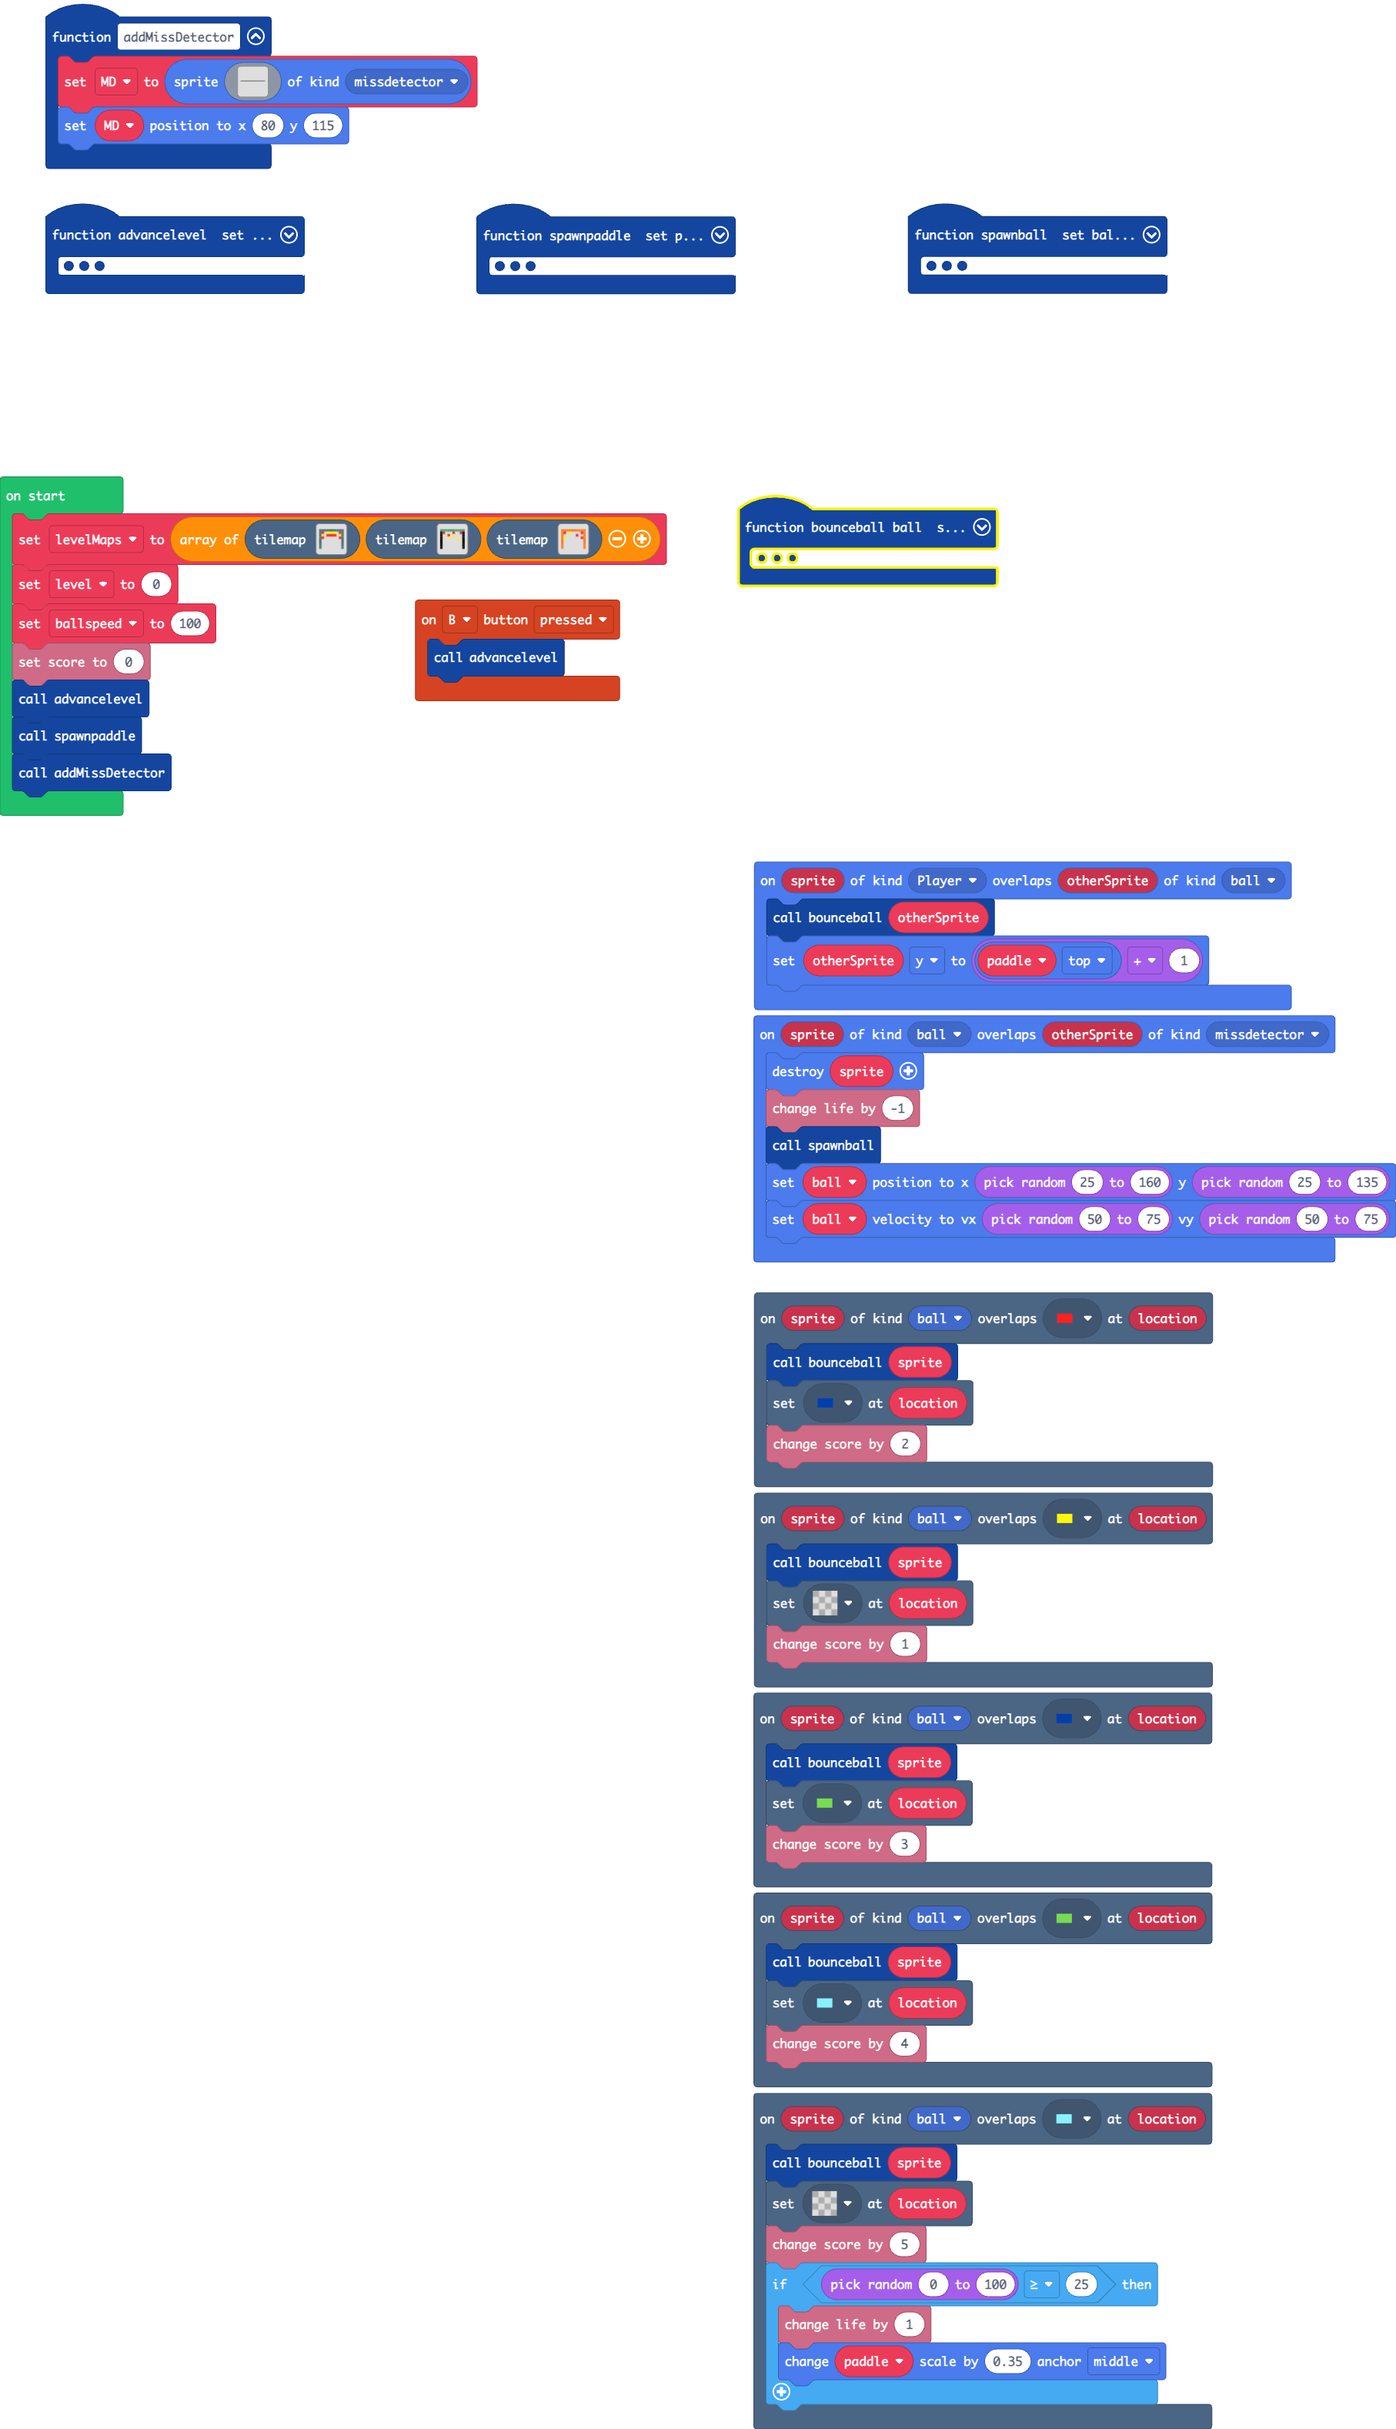
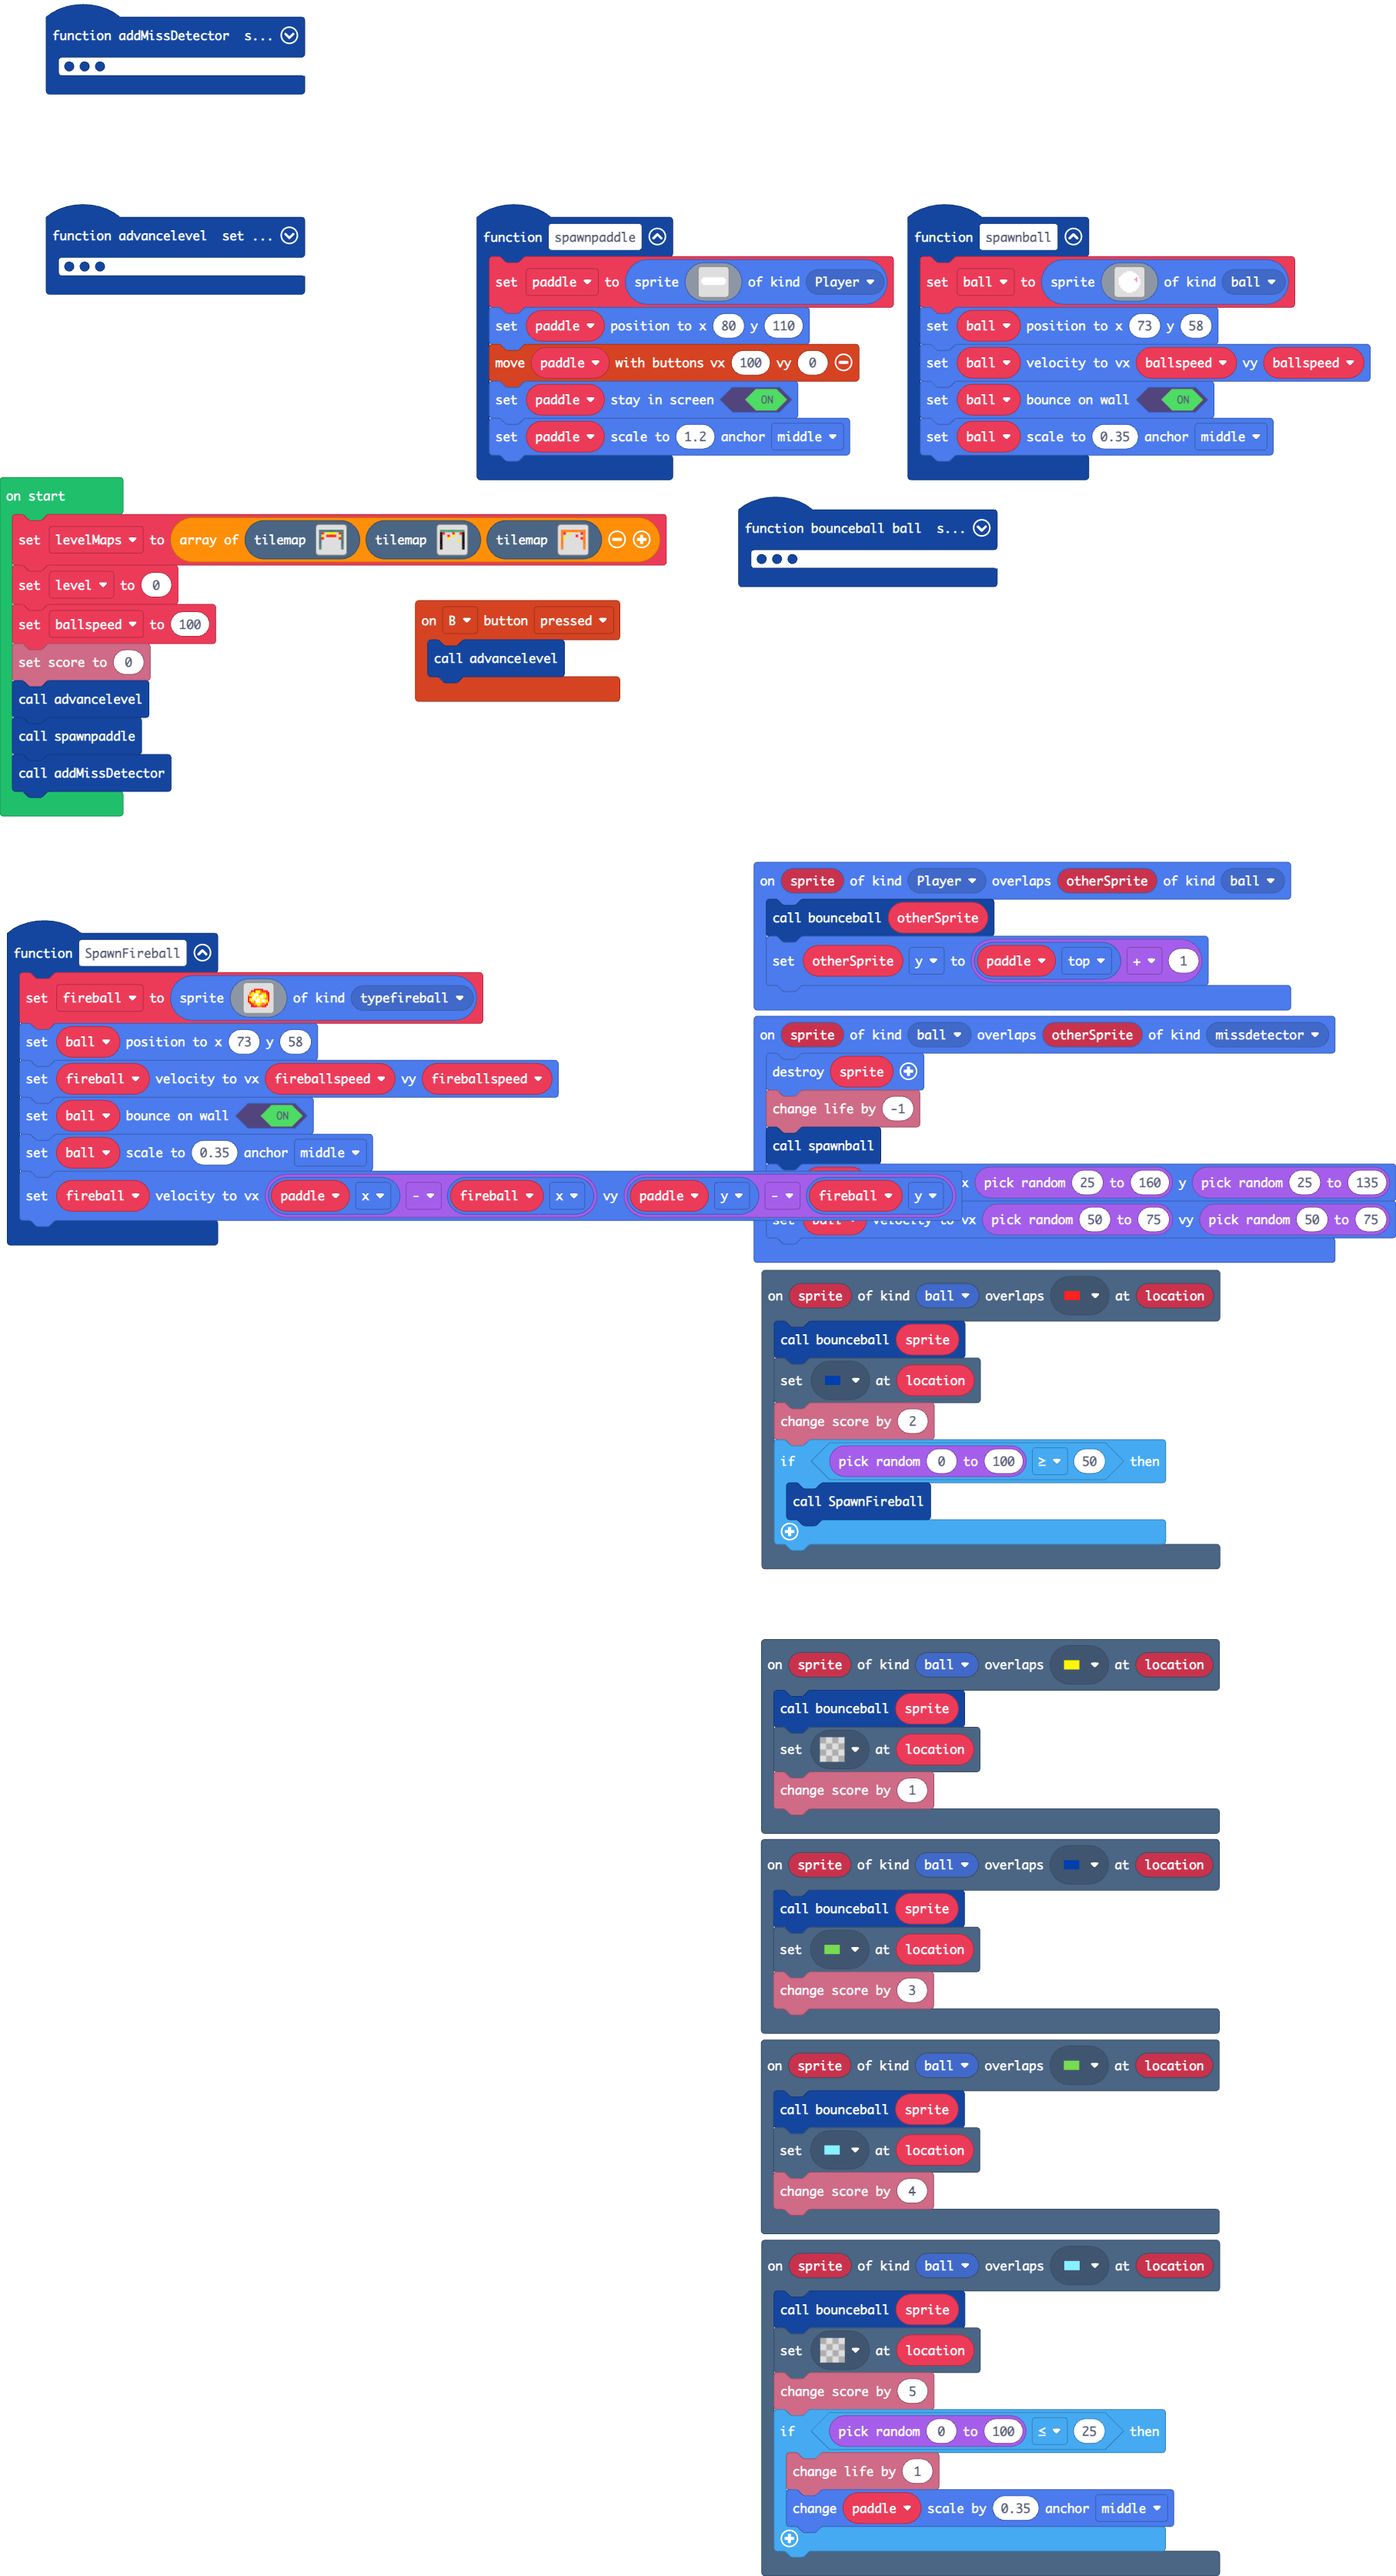
Update main.blocks, main.ts

Changed region(s): [[0.0, 0.0621, 1.0, 1.0], [0.0309, 0.0, 0.3396, 0.1242], [0.8644, 0.9937, 0.8953, 1.0]]

diff --git a/main.ts b/main.ts
@@ -1,6 +1,7 @@
 namespace SpriteKind {
     export const ball = SpriteKind.create()
     export const missdetector = SpriteKind.create()
+    export const typefireball = SpriteKind.create()
 }
 scene.onOverlapTile(SpriteKind.ball, assets.tile`myTile`, function (sprite, location) {
     bounceball(sprite)
@@ -21,6 +22,9 @@ scene.onOverlapTile(SpriteKind.ball, assets.tile`myTile3`, function (sprite, loc
     bounceball(sprite)
     tiles.setTileAt(location, assets.tile`myTile1`)
     info.changeScoreBy(2)
+    if (randint(0, 100) >= 50) {
+        SpawnFireball()
+    }
 })
 scene.onOverlapTile(SpriteKind.ball, assets.tile`myTile2`, function (sprite, location) {
     bounceball(sprite)
@@ -50,7 +54,7 @@ scene.onOverlapTile(SpriteKind.ball, assets.tile`myTile5`, function (sprite, loc
     bounceball(sprite)
     tiles.setTileAt(location, assets.tile`transparency16`)
     info.changeScoreBy(5)
-    if (randint(0, 100) >= 25) {
+    if (randint(0, 100) <= 25) {
         info.changeLifeBy(1)
         paddle.changeScale(0.35, ScaleAnchor.Middle)
     }
@@ -86,6 +90,32 @@ function spawnball () {
     ball.setBounceOnWall(true)
     ball.setScale(0.35, ScaleAnchor.Middle)
 }
+function SpawnFireball () {
+    let fireballspeed = 0
+    fireball = sprites.create(img`
+        . . . . . . . . . . . . . . . . 
+        . . . . . . . . . . . . . . . . 
+        . . . . . 2 2 2 2 2 2 . . . . . 
+        . . . 2 2 2 5 5 5 4 2 2 2 2 . . 
+        . . 4 4 5 4 5 5 5 4 4 4 4 2 2 . 
+        . . 4 5 5 1 1 1 4 4 5 5 5 2 2 . 
+        . 4 5 5 5 1 1 1 5 1 1 5 5 4 2 . 
+        . 2 2 4 1 1 5 5 5 1 1 5 5 4 2 . 
+        . 2 5 5 1 1 5 1 1 5 5 d 4 4 2 . 
+        . 2 5 5 5 d 1 1 1 5 1 1 5 5 2 . 
+        . 2 2 5 5 4 1 1 1 5 1 1 5 5 4 . 
+        . . 2 2 4 4 5 5 5 5 4 4 5 2 . . 
+        . . . 2 2 4 4 5 5 4 4 4 2 2 . . 
+        . . . 2 2 2 2 4 4 4 2 2 2 . . . 
+        . . . . . . . . . . . . . . . . 
+        . . . . . . . . . . . . . . . . 
+        `, SpriteKind.typefireball)
+    ball.setPosition(73, 58)
+    fireball.setVelocity(fireballspeed, fireballspeed)
+    ball.setBounceOnWall(true)
+    ball.setScale(0.35, ScaleAnchor.Middle)
+    fireball.setVelocity(paddle.x - fireball.x, paddle.y - fireball.y)
+}
 function spawnpaddle () {
     paddle = sprites.create(img`
         . . . . . . . . . . . . . . . . 
@@ -108,11 +138,13 @@ function spawnpaddle () {
     paddle.setPosition(80, 110)
     controller.moveSprite(paddle, 100, 0)
     paddle.setStayInScreen(true)
+    paddle.setScale(1.2, ScaleAnchor.Middle)
 }
 sprites.onOverlap(SpriteKind.Player, SpriteKind.ball, function (sprite, otherSprite) {
     bounceball(otherSprite)
     otherSprite.y = paddle.top + 1
 })
+let fireball: Sprite = null
 let ball: Sprite = null
 let paddle: Sprite = null
 let ballVy = 0
